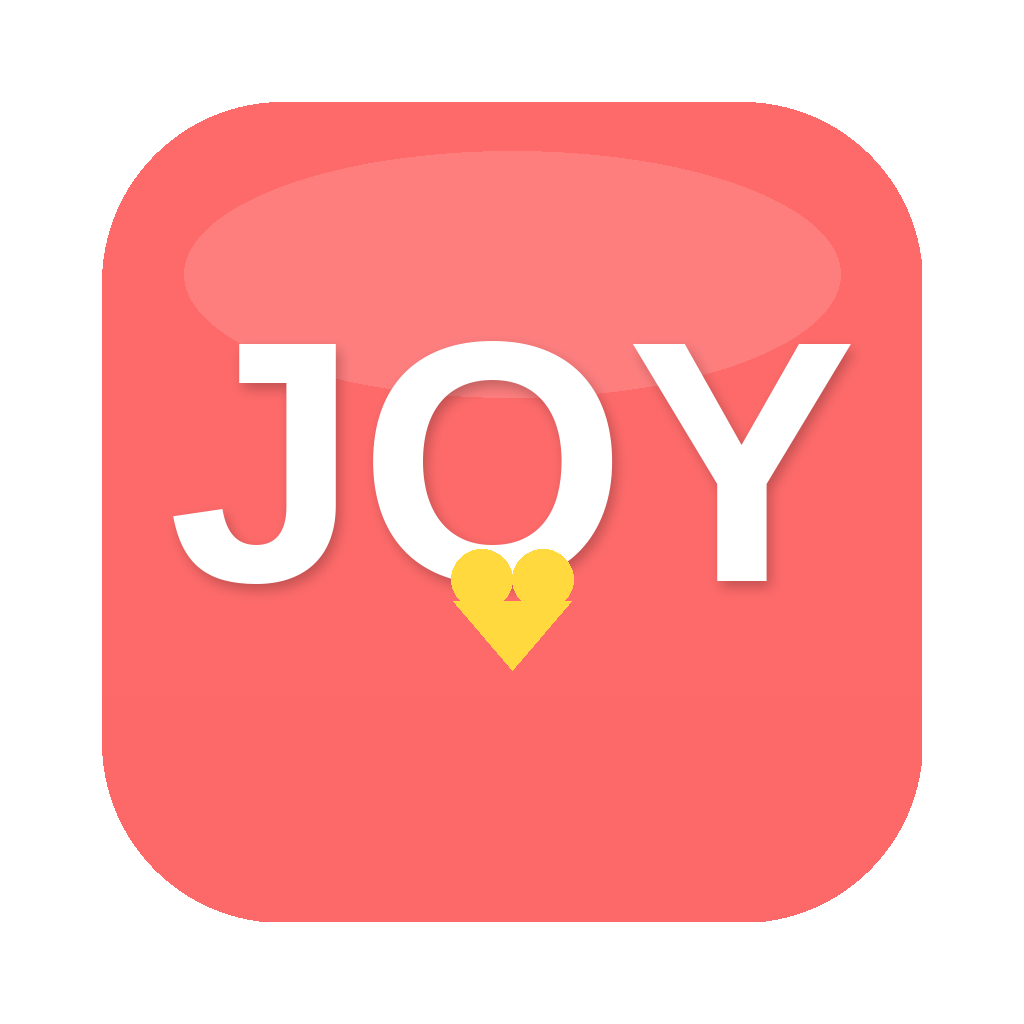
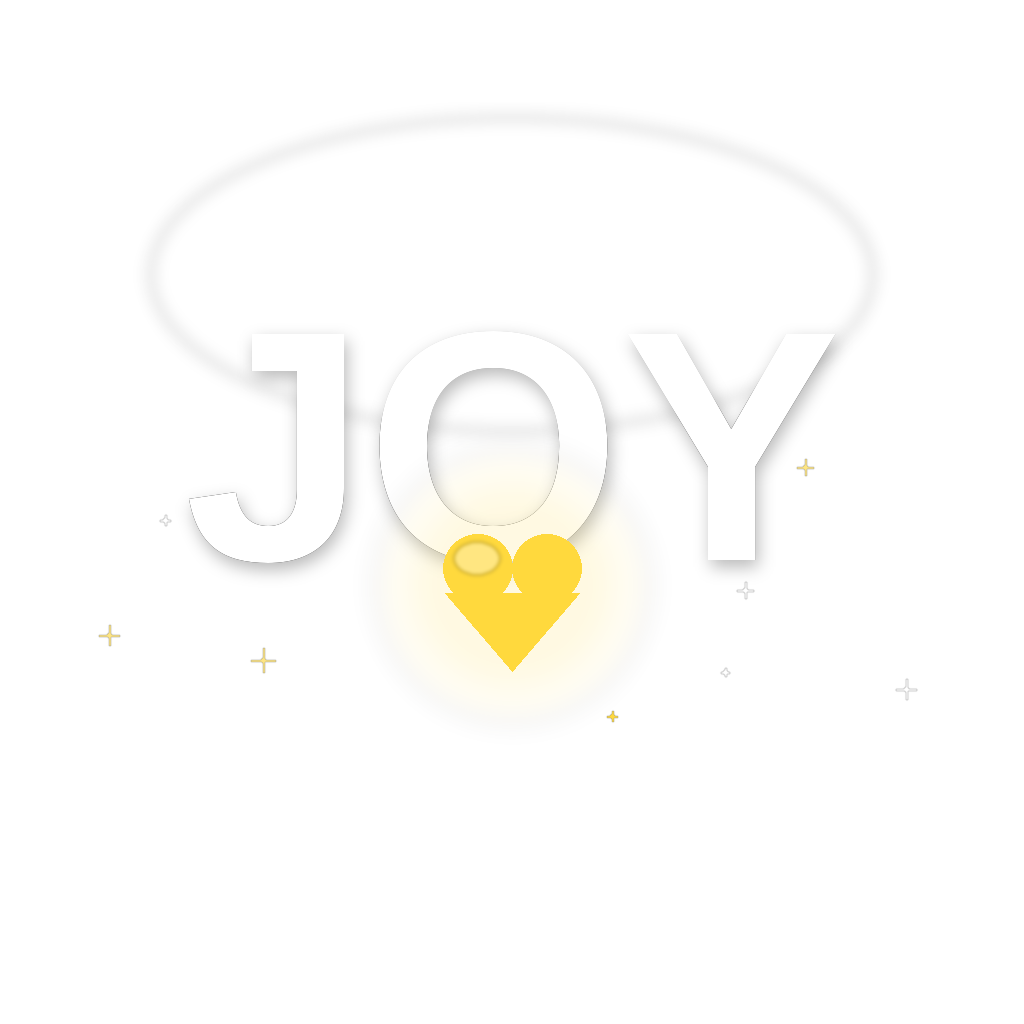
auto-commit for 35860d17-ecb6-4b94-969e-9e9a6ccc69a8

diff --git a/scripts/generate_brand_assets.py b/scripts/generate_brand_assets.py
@@ -1,27 +1,33 @@
-"""Generate JOY app icons + splash from scratch using PIL.
+"""Generate refined JOY brand assets (v2) — icon + adaptive + splash + favicon.
+
+Design language:
+- Coral radial gradient (warm center → deeper edges), giving an "Apple-style" depth
+- White "JOY" wordmark with custom letter spacing + subtle drop shadow
+- Stylized yellow heart with a soft yellow halo (= warmth, donation)
+- Scattered yellow sparkles for joyful vibe
+- Top inner highlight for a premium 3D feel
+- Rounded square with 22% radius (matches iOS app icon style)
 
 Output:
-  frontend/assets/images/icon.png          1024x1024  - main app icon
-  frontend/assets/images/adaptive-icon.png 1024x1024  - Android adaptive (safe zone)
-  frontend/assets/images/splash-icon.png   1024x1024  - splash logo (transparent bg)
-  frontend/assets/images/favicon.png        256x256   - web favicon
-  Plus copies at frontend/assets/{icon,splash,adaptive-icon,favicon}.png for legacy paths.
-
-Brand:
-  Primary coral:   #FF6B6B
-  Cream BG:        #FFF8F0
-  Accent yellow:   #FFD93D
-  Text dark:       #2D3748
+  frontend/assets/images/icon.png          1024x1024  - iOS / generic
+  frontend/assets/images/adaptive-icon.png 1024x1024  - Android adaptive (safe-zone)
+  frontend/assets/images/splash-icon.png   2048x2048  - splash logo (transparent bg)
+  frontend/assets/images/splash-image.png  2048x2048  - alias
+  frontend/assets/images/favicon.png        512x512   - web favicon
+  + legacy copies at frontend/assets/
 """
+import math
 import os
+import random
 from PIL import Image, ImageDraw, ImageFilter, ImageFont
 
 CORAL = (255, 107, 107)
-CORAL_DARK = (232, 80, 80)
-CREAM = (255, 248, 240)
+CORAL_LIGHT = (255, 153, 153)
+CORAL_DARK = (220, 70, 70)
 YELLOW = (255, 217, 61)
+YELLOW_SOFT = (255, 230, 130)
 WHITE = (255, 255, 255)
-DARK = (45, 55, 72)
+CREAM = (255, 248, 240)
 
 OUT_DIR = '/app/frontend/assets/images'
 LEGACY_DIR = '/app/frontend/assets'
@@ -29,10 +35,10 @@ LEGACY_DIR = '/app/frontend/assets'
 
 def load_font(size, bold=True):
     candidates = [
-        '/usr/share/fonts/truetype/dejavu/DejaVuSans-Bold.ttf' if bold else
-        '/usr/share/fonts/truetype/dejavu/DejaVuSans.ttf',
-        '/usr/share/fonts/truetype/liberation/LiberationSans-Bold.ttf' if bold else
-        '/usr/share/fonts/truetype/liberation/LiberationSans-Regular.ttf',
+        '/usr/share/fonts/truetype/dejavu/DejaVuSans-Bold.ttf' if bold
+        else '/usr/share/fonts/truetype/dejavu/DejaVuSans.ttf',
+        '/usr/share/fonts/truetype/liberation/LiberationSans-Bold.ttf' if bold
+        else '/usr/share/fonts/truetype/liberation/LiberationSans-Regular.ttf',
     ]
     for c in candidates:
         if os.path.exists(c):
@@ -42,127 +48,228 @@ def load_font(size, bold=True):
 
 def rounded_mask(size, radius):
     mask = Image.new('L', size, 0)
-    d = ImageDraw.Draw(mask)
-    d.rounded_rectangle((0, 0, size[0], size[1]), radius=radius, fill=255)
+    ImageDraw.Draw(mask).rounded_rectangle((0, 0, size[0], size[1]), radius=radius, fill=255)
     return mask
 
 
-def draw_heart(draw, cx, cy, size, color):
-    """Stylized heart shape via two circles + triangle."""
+def radial_gradient(size, center_color, edge_color, center_offset_y=-0.1):
+    """Return RGBA image with a soft radial gradient from center to edges."""
+    w, h = size
+    cx = w // 2
+    cy = int(h // 2 + h * center_offset_y)
+    max_d = math.hypot(max(cx, w - cx), max(cy, h - cy))
+    img = Image.new('RGB', size, edge_color)
+    px = img.load()
+    for y in range(h):
+        for x in range(w):
+            d = math.hypot(x - cx, y - cy) / max_d
+            d = min(1, d)
+            # Ease so the center remains broader
+            t = d * d
+            r = int(center_color[0] * (1 - t) + edge_color[0] * t)
+            g = int(center_color[1] * (1 - t) + edge_color[1] * t)
+            b = int(center_color[2] * (1 - t) + edge_color[2] * t)
+            px[x, y] = (r, g, b)
+    return img.convert('RGBA')
+
+
+def draw_heart(canvas, cx, cy, size, color, halo=True):
+    """Stylized heart with optional yellow halo. cx,cy = center of the heart."""
     r = size // 2
-    # Left lobe
-    draw.ellipse((cx - r, cy - r // 2 - r // 4,
-                  cx, cy + r // 2 - r // 4), fill=color)
-    # Right lobe
-    draw.ellipse((cx, cy - r // 2 - r // 4,
-                  cx + r, cy + r // 2 - r // 4), fill=color)
-    # Point
-    draw.polygon(
-        [
-            (cx - r + 2, cy + r // 8),
-            (cx + r - 2, cy + r // 8),
-            (cx, cy + r + r // 4),
-        ],
+    if halo:
+        halo_img = Image.new('RGBA', canvas.size, (0, 0, 0, 0))
+        hd = ImageDraw.Draw(halo_img)
+        for i, alpha in enumerate([20, 35, 60]):
+            pad = (3 - i) * (size // 6)
+            hd.ellipse(
+                (cx - r - pad, cy - r - pad, cx + r + pad, cy + r + pad),
+                fill=(YELLOW_SOFT[0], YELLOW_SOFT[1], YELLOW_SOFT[2], alpha),
+            )
+        halo_img = halo_img.filter(ImageFilter.GaussianBlur(size // 12))
+        canvas.alpha_composite(halo_img)
+
+    layer = Image.new('RGBA', canvas.size, (0, 0, 0, 0))
+    d = ImageDraw.Draw(layer)
+    # Two lobes
+    d.ellipse((cx - r, cy - r // 2 - r // 4, cx, cy + r // 2 - r // 4), fill=color)
+    d.ellipse((cx, cy - r // 2 - r // 4, cx + r, cy + r // 2 - r // 4), fill=color)
+    # Bottom triangle (slightly inset for soft point)
+    d.polygon(
+        [(cx - r + 2, cy + r // 8), (cx + r - 2, cy + r // 8), (cx, cy + r + r // 4)],
         fill=color,
     )
+    # Inner highlight on the heart (top-left lobe)
+    hl = Image.new('RGBA', canvas.size, (0, 0, 0, 0))
+    hd = ImageDraw.Draw(hl)
+    hd.ellipse(
+        (cx - r + r // 6, cy - r // 2 - r // 4 + r // 8,
+         cx - r // 5, cy - r // 6),
+        fill=(255, 255, 255, 90),
+    )
+    hl = hl.filter(ImageFilter.GaussianBlur(2))
+    canvas.alpha_composite(layer)
+    canvas.alpha_composite(hl)
+
+
+def add_sparkles(canvas, anchor_box, count=10, seed=42):
+    """Tiny yellow + white sparkles scattered within anchor_box (x1,y1,x2,y2)."""
+    rnd = random.Random(seed)
+    x1, y1, x2, y2 = anchor_box
+    layer = Image.new('RGBA', canvas.size, (0, 0, 0, 0))
+    d = ImageDraw.Draw(layer)
+    for _ in range(count):
+        sx = rnd.randint(x1, x2)
+        sy = rnd.randint(y1, y2)
+        size = rnd.choice([4, 5, 6, 8, 10, 12])
+        col = rnd.choice([YELLOW, WHITE, (255, 255, 255), YELLOW_SOFT])
+        # 4-point star: tiny cross
+        d.line([(sx - size, sy), (sx + size, sy)], fill=col, width=2)
+        d.line([(sx, sy - size), (sx, sy + size)], fill=col, width=2)
+        # Center dot
+        d.ellipse((sx - 2, sy - 2, sx + 2, sy + 2), fill=col)
+    layer = layer.filter(ImageFilter.GaussianBlur(0.5))
+    canvas.alpha_composite(layer)
 
 
 def make_icon(size=1024, safe_zone=False):
-    """Coral rounded-square with white 'JOY' wordmark + heart accent below."""
     img = Image.new('RGBA', (size, size), (0, 0, 0, 0))
-    d = ImageDraw.Draw(img)
+
     margin = int(size * 0.10) if safe_zone else 0
     inner = size - 2 * margin
     radius = int(inner * 0.22)
 
-    # Coral rounded square with subtle vertical gradient
-    bg = Image.new('RGBA', (inner, inner), CORAL)
-    grad = ImageDraw.Draw(bg)
-    for y in range(inner):
-        t = y / inner
-        r = int(CORAL[0] * (1 - t * 0.06) + CORAL_DARK[0] * t * 0.06)
-        g = int(CORAL[1] * (1 - t * 0.06) + CORAL_DARK[1] * t * 0.06)
-        b = int(CORAL[2] * (1 - t * 0.06) + CORAL_DARK[2] * t * 0.06)
-        grad.line([(0, y), (inner, y)], fill=(r, g, b, 255))
+    # 1) Coral radial gradient background
+    bg = radial_gradient((inner, inner), CORAL_LIGHT, CORAL_DARK, center_offset_y=-0.15)
     mask = rounded_mask((inner, inner), radius)
     img.paste(bg, (margin, margin), mask)
 
-    # Subtle inner highlight (white-ish ring near top)
-    overlay = Image.new('RGBA', (size, size), (0, 0, 0, 0))
-    od = ImageDraw.Draw(overlay)
-    od.ellipse(
-        (margin + inner * 0.10, margin + inner * 0.06,
-         margin + inner * 0.90, margin + inner * 0.36),
-        fill=(255, 255, 255, 35),
+    # 2) Sparkles in upper area (subtle)
+    add_sparkles(
+        img,
+        (margin + int(inner * 0.08), margin + int(inner * 0.05),
+         margin + int(inner * 0.92), margin + int(inner * 0.45)),
+        count=14,
+        seed=7,
     )
-    img = Image.alpha_composite(img, overlay)
 
-    d = ImageDraw.Draw(img)
+    # 3) Inner top highlight (gives 3D feel)
+    hl = Image.new('RGBA', (size, size), (0, 0, 0, 0))
+    hd = ImageDraw.Draw(hl)
+    hd.ellipse(
+        (margin + int(inner * 0.06), margin + int(inner * 0.02),
+         margin + int(inner * 0.94), margin + int(inner * 0.40)),
+        fill=(255, 255, 255, 55),
+    )
+    hl = hl.filter(ImageFilter.GaussianBlur(8))
+    # Clip highlight to the rounded square shape
+    full_mask = Image.new('L', (size, size), 0)
+    ImageDraw.Draw(full_mask).rounded_rectangle(
+        (margin, margin, size - margin, size - margin), radius=radius, fill=255
+    )
+    img.paste(hl, (0, 0), full_mask)
 
-    # "JOY" wordmark — large, white, centered slightly above middle
-    font_size = int(inner * 0.42)
+    # 4) "JOY" wordmark
+    font_size = int(inner * 0.40)
     font = load_font(font_size, bold=True)
     text = 'JOY'
+    d = ImageDraw.Draw(img)
     bbox = d.textbbox((0, 0), text, font=font)
-    tw = bbox[2] - bbox[0]
-    th = bbox[3] - bbox[1]
+    tw, th = bbox[2] - bbox[0], bbox[3] - bbox[1]
     tx = (size - tw) // 2 - bbox[0]
-    ty = margin + (inner - th) // 2 - int(inner * 0.06) - bbox[1]
-    # Soft shadow
-    shadow = Image.new('RGBA', (size, size), (0, 0, 0, 0))
-    sd = ImageDraw.Draw(shadow)
-    sd.text((tx + 4, ty + 6), text, fill=(0, 0, 0, 60), font=font)
-    shadow = shadow.filter(ImageFilter.GaussianBlur(6))
-    img = Image.alpha_composite(img, shadow)
+    ty = margin + (inner - th) // 2 - int(inner * 0.08) - bbox[1]
+    # Soft drop shadow
+    sh = Image.new('RGBA', (size, size), (0, 0, 0, 0))
+    sd = ImageDraw.Draw(sh)
+    sd.text((tx + 3, ty + 7), text, fill=(0, 0, 0, 70), font=font)
+    sh = sh.filter(ImageFilter.GaussianBlur(8))
+    img.alpha_composite(sh)
     d = ImageDraw.Draw(img)
     d.text((tx, ty), text, fill=WHITE, font=font)
 
-    # Heart accent below the wordmark
-    heart_size = int(inner * 0.15)
+    # 5) Yellow heart with halo
+    heart_size = int(inner * 0.17)
     heart_cx = size // 2
-    heart_cy = ty + th + int(inner * 0.10)
-    draw_heart(d, heart_cx, heart_cy, heart_size, YELLOW)
+    heart_cy = ty + th + int(inner * 0.11)
+    draw_heart(img, heart_cx, heart_cy, heart_size, YELLOW, halo=True)
+
+    # 6) Sparkles around the heart
+    add_sparkles(
+        img,
+        (heart_cx - heart_size * 3, heart_cy - heart_size,
+         heart_cx + heart_size * 3, heart_cy + heart_size * 2),
+        count=8,
+        seed=21,
+    )
 
     return img
 
 
-def make_splash_icon(size=1024):
-    """Transparent canvas with centered coral disc + JOY + heart.
-    expo-splash-screen will center this over its configured backgroundColor.
-    """
+def make_splash_icon(size=2048):
+    """Premium splash logo on transparent bg. expo-splash-screen will center it
+    over the configured backgroundColor (cream)."""
     img = Image.new('RGBA', (size, size), (0, 0, 0, 0))
-    d = ImageDraw.Draw(img)
 
     cx, cy = size // 2, size // 2
-    disc_r = int(size * 0.32)
-    # Coral disc
-    d.ellipse((cx - disc_r, cy - disc_r, cx + disc_r, cy + disc_r), fill=CORAL)
-    # Subtle inner highlight
-    overlay = Image.new('RGBA', (size, size), (0, 0, 0, 0))
-    od = ImageDraw.Draw(overlay)
-    od.ellipse(
-        (cx - disc_r + 20, cy - disc_r + 20,
-         cx + disc_r - 20, cy - disc_r // 3),
-        fill=(255, 255, 255, 50),
-    )
-    img = Image.alpha_composite(img, overlay)
-    d = ImageDraw.Draw(img)
+    disc_r = int(size * 0.30)
 
-    # "JOY" centered in disc
-    font_size = int(disc_r * 1.10)
+    # Disc with radial gradient
+    disc_img = radial_gradient((disc_r * 2, disc_r * 2), CORAL_LIGHT, CORAL_DARK, -0.12)
+    # Make circular mask
+    cmask = Image.new('L', (disc_r * 2, disc_r * 2), 0)
+    ImageDraw.Draw(cmask).ellipse((0, 0, disc_r * 2, disc_r * 2), fill=255)
+    img.paste(disc_img, (cx - disc_r, cy - disc_r), cmask)
+
+    # Top highlight on disc
+    hl = Image.new('RGBA', img.size, (0, 0, 0, 0))
+    hd = ImageDraw.Draw(hl)
+    hd.ellipse(
+        (cx - disc_r + 30, cy - disc_r + 20,
+         cx + disc_r - 30, cy - disc_r // 4),
+        fill=(255, 255, 255, 75),
+    )
+    hl = hl.filter(ImageFilter.GaussianBlur(20))
+    img.paste(hl, (0, 0), cmask.resize(img.size, Image.LANCZOS) if False else None)
+    img.alpha_composite(hl)
+
+    # Sparkles AROUND the disc (in transparent area), to make splash feel rich
+    add_sparkles(
+        img,
+        (int(size * 0.05), int(size * 0.10),
+         int(size * 0.95), int(size * 0.85)),
+        count=30,
+        seed=99,
+    )
+
+    # JOY centered in disc
+    font_size = int(disc_r * 1.0)
     font = load_font(font_size, bold=True)
+    d = ImageDraw.Draw(img)
     text = 'JOY'
     bbox = d.textbbox((0, 0), text, font=font)
-    tw = bbox[2] - bbox[0]
-    th = bbox[3] - bbox[1]
+    tw, th = bbox[2] - bbox[0], bbox[3] - bbox[1]
     tx = cx - tw // 2 - bbox[0]
-    ty = cy - th // 2 - int(disc_r * 0.10) - bbox[1]
+    ty = cy - th // 2 - int(disc_r * 0.13) - bbox[1]
+    sh = Image.new('RGBA', img.size, (0, 0, 0, 0))
+    sd = ImageDraw.Draw(sh)
+    sd.text((tx + 4, ty + 9), text, fill=(0, 0, 0, 70), font=font)
+    sh = sh.filter(ImageFilter.GaussianBlur(10))
+    img.alpha_composite(sh)
+    d = ImageDraw.Draw(img)
     d.text((tx, ty), text, fill=WHITE, font=font)
 
     # Heart below
-    heart_size = int(disc_r * 0.28)
+    heart_size = int(disc_r * 0.30)
     heart_cy = ty + th + int(disc_r * 0.18)
-    draw_heart(d, cx, heart_cy, heart_size, YELLOW)
+    draw_heart(img, cx, heart_cy, heart_size, YELLOW, halo=True)
+
+    # Tagline below the disc (subtle, coral muted)
+    tag_font = load_font(int(size * 0.034), bold=True)
+    tagline = 'Risvegliamo il bene'
+    tbbox = d.textbbox((0, 0), tagline, font=tag_font)
+    ttw = tbbox[2] - tbbox[0]
+    ttx = cx - ttw // 2 - tbbox[0]
+    tty = cy + disc_r + int(size * 0.04)
+    d.text((ttx, tty), tagline, fill=(CORAL_DARK[0], CORAL_DARK[1], CORAL_DARK[2], 200), font=tag_font)
 
     return img
 
@@ -177,24 +284,21 @@ def save(img, path, size=None):
 if __name__ == '__main__':
     os.makedirs(OUT_DIR, exist_ok=True)
 
-    print('🎨 Generating icons...')
+    print('🎨 Generating JOY brand assets v2…')
     icon = make_icon(1024, safe_zone=False)
     adaptive = make_icon(1024, safe_zone=True)
-    splash = make_splash_icon(1024)
-    favicon_img = make_icon(256, safe_zone=False)
+    splash = make_splash_icon(2048)
+    favicon_img = make_icon(512, safe_zone=False)
 
-    # /assets/images/ (paths used by app.json)
     save(icon, f'{OUT_DIR}/icon.png')
     save(adaptive, f'{OUT_DIR}/adaptive-icon.png')
     save(splash, f'{OUT_DIR}/splash-icon.png')
-    save(favicon_img, f'{OUT_DIR}/favicon.png')
-    # Keep old splash-image for backward compat
     save(splash, f'{OUT_DIR}/splash-image.png')
+    save(favicon_img, f'{OUT_DIR}/favicon.png')
 
-    # /assets/ root (legacy paths)
     save(icon, f'{LEGACY_DIR}/icon.png')
     save(adaptive, f'{LEGACY_DIR}/adaptive-icon.png')
     save(splash, f'{LEGACY_DIR}/splash.png')
     save(favicon_img, f'{LEGACY_DIR}/favicon.png')
 
-    print('✅ All assets generated.')
+    print('✅ Done.')
